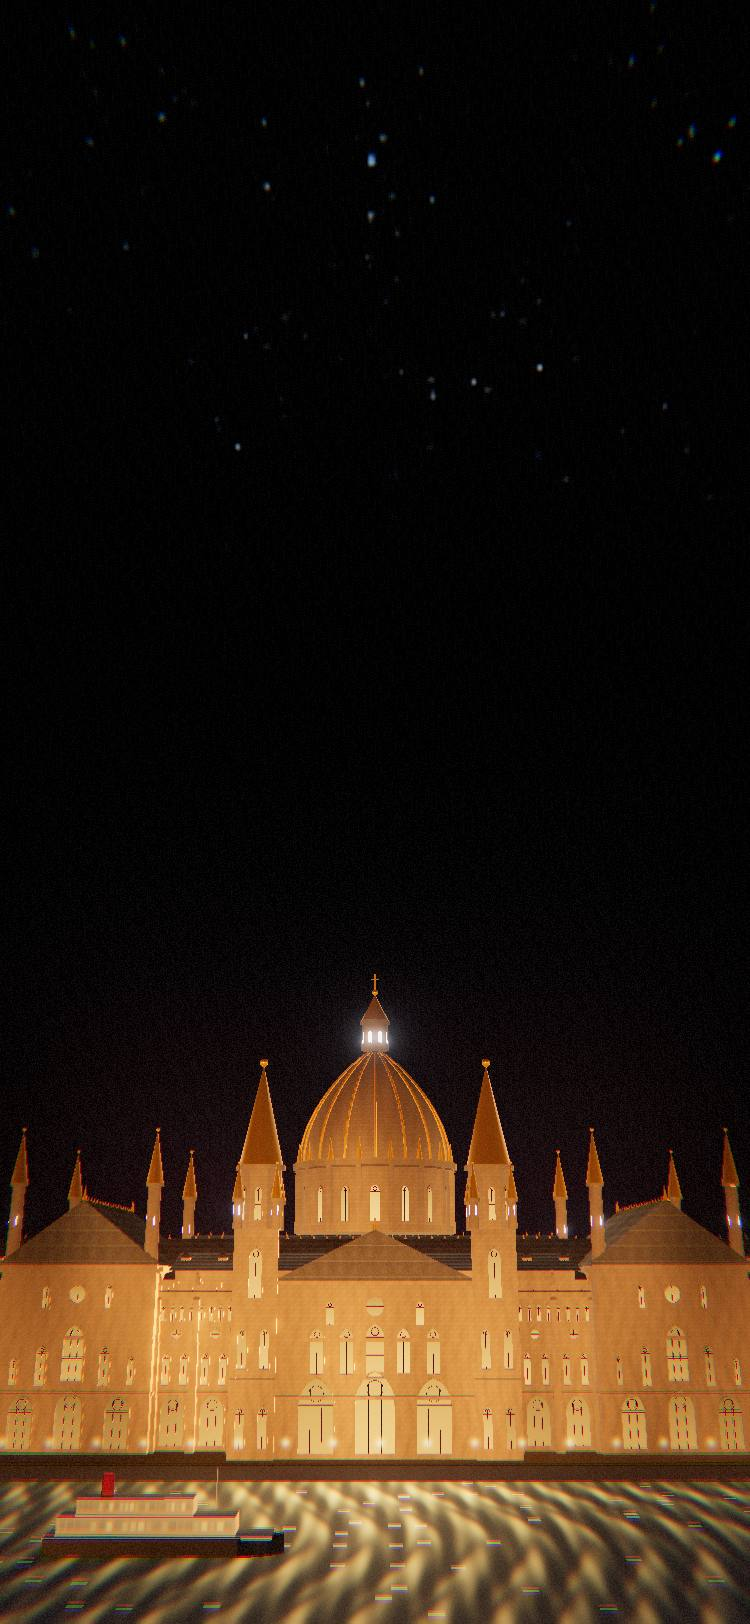
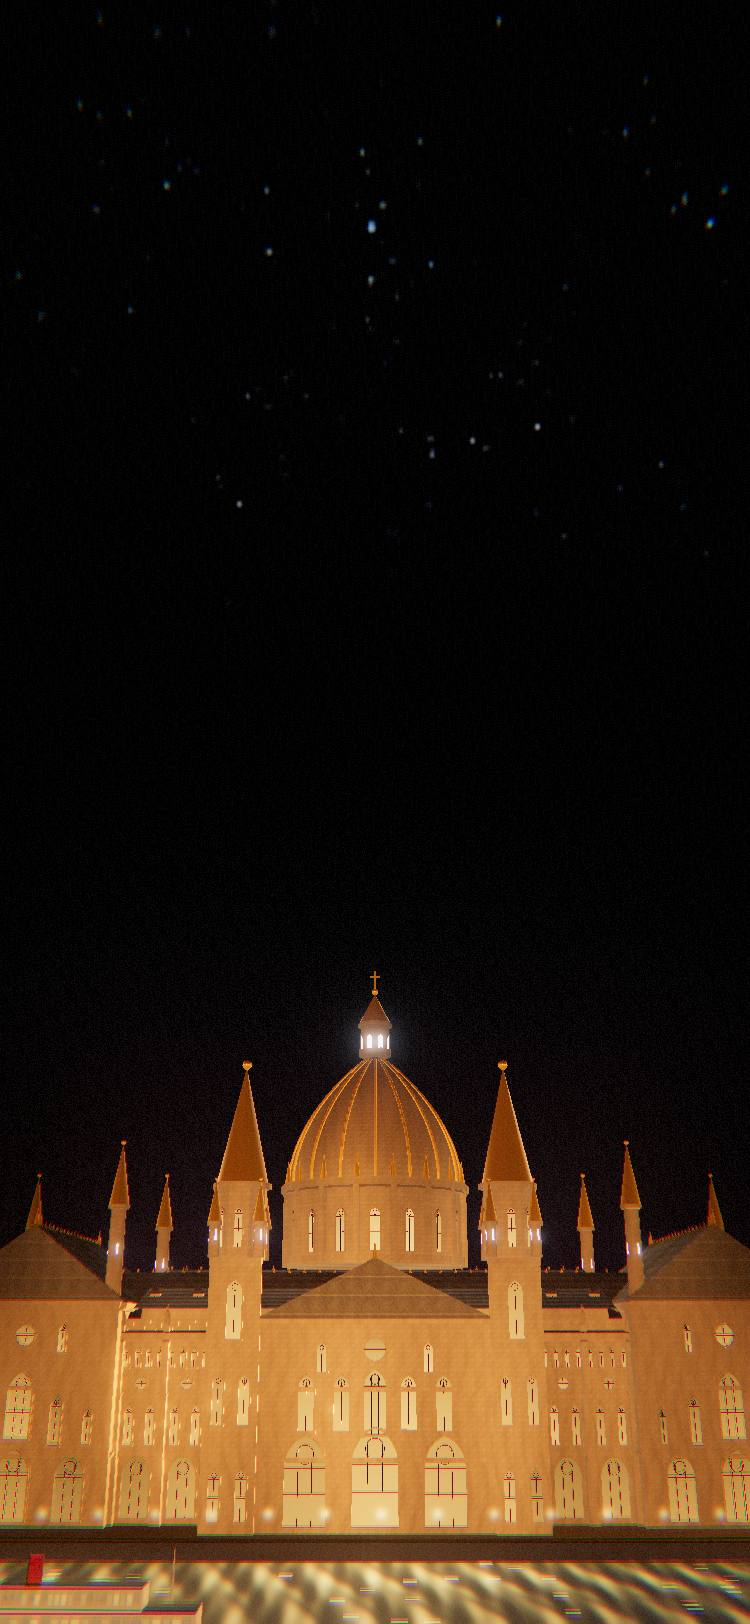
Hero: remove the scroll-cue animation, zoom on the Parliament, text right above the dome

Changed region(s): [[0.0, 0.6158, 1.0, 1.0], [0.4907, 0.0924, 0.5213, 0.1539], [0.9507, 0.0924, 0.9813, 0.1232]]

diff --git a/public/alexstudio/index.html b/public/alexstudio/index.html
@@ -350,18 +350,12 @@ header.nav{
 @media (prefers-reduced-motion:reduce){
   .scroll-arrow-chevrons span{animation:none!important;opacity:.7;}
 }
-.scroll-cue{margin-top:calc(56*var(--u));width:calc(28*var(--u));height:calc(44*var(--u));
-  border:1.5px solid rgba(255,255,255,.65);border-radius:999px;position:relative;flex:none;}
-.scroll-cue span{position:absolute;top:calc(8*var(--u));left:50%;width:4px;height:8px;border-radius:2px;
-  background:var(--cyan);transform:translateX(-50%);animation:scrollcue 1.8s ease-in-out infinite;}
-@keyframes scrollcue{0%{opacity:1;transform:translate(-50%,0);}70%{opacity:0;transform:translate(-50%,14px);}100%{opacity:0;transform:translate(-50%,14px);}}
 
-.hero.enter .eyebrow-wrap,.hero.enter .tagline,.hero.enter .hero-sub,.hero.enter .scroll-cue{
+.hero.enter .eyebrow-wrap,.hero.enter .tagline,.hero.enter .hero-sub{
   opacity:0;transform:translateY(calc(14*var(--u)));}
 .hero.enter.run .eyebrow-wrap{opacity:1;transform:none;transition:opacity .7s var(--ease) .1s,transform .7s var(--ease) .1s;}
 .hero.enter.run .tagline{opacity:1;transform:none;transition:opacity .9s var(--ease) .25s,transform .9s var(--ease) .25s;}
 .hero.enter.run .hero-sub{opacity:1;transform:none;transition:opacity .8s var(--ease) .5s,transform .8s var(--ease) .5s;}
-.hero.enter.run .scroll-cue{opacity:1;transform:none;transition:opacity .8s var(--ease) .7s,transform .8s var(--ease) .7s;}
 
 /* ============================================================
    4. SHOWCASE — the three-slot cinematic switcher
@@ -558,7 +552,6 @@ body.ready .bg,body.ready .grain{opacity:1;}
   .composition,.side,.frame-shell,.tilt{transition:none!important;}
   .frame-shell{animation:none!important;}
   .orbit-ring{animation:none!important;}
-  .scroll-cue span{animation:none!important;}
   .spotlight{display:none!important;}
   .cursor-dot,.cursor-ring{display:none!important;}
 }
@@ -867,12 +860,15 @@ footer.site-foot a:hover{color:var(--cyan);}
   .orbit-wrap,.frame-glow{display:none;}
   .frame-shell{animation:none;}
 }
+@media (min-width:1100px){
+  .hero .tagline{max-width:40ch;}
+  .hero-sub{max-width:66ch;}
+}
 /* Phones: the hero text sits at the top so the Parliament shows underneath it (the camera is raised to match). */
 @media (max-width:820px){
   .hero{justify-content:flex-start;padding:calc(112*var(--u)) var(--gutter) calc(40*var(--u));}
   .hero .tagline{font-size:calc(36*var(--u));}
   .hero-sub{font-size:calc(16.5*var(--u));margin-top:calc(16*var(--u));}
-  .scroll-cue{margin-top:calc(26*var(--u));}
   .hero::before{top:30%;height:56%;}
 }
 </style>
@@ -973,7 +969,6 @@ footer.site-foot a:hover{color:var(--cyan);}
   </div>
   <h1 class="tagline">Prémium webdesign, amely az ambiciózus márkákat pályára állítja.</h1>
   <p class="hero-sub" data-i18n="heroSub">Három szintű mesterségbeli tudás, az egyoldalas weboldaltól a teljesen egyedi prémium élményig — görgess lejjebb, hogy élőben felfedezd őket.</p>
-  <div class="scroll-cue" aria-hidden="true"><span></span></div>
 </section>
 
 <main id="showcase" class="stage showcase enter">

diff --git a/scene3d/parliament3d.js b/scene3d/parliament3d.js
@@ -965,7 +965,7 @@ function buildInterior(mobile, ctx) {
 /* waypoints: [page progress, position, look-at, fov]; progress 0..6 = hero, vitrine,
    prix, services, à propos, FAQ, contact (see PARL_STOPS in the page). */
 const PATH_A = [
-  [0, [0, 34, 300], [0, 111, 0], 44], /* the first screen: the whole Parliament in the lower half, the sky above it for the title (was [0,12,176] -> [0,48,0], building behind the text) */
+  [0, [0, 30, 262], [0, 100, 0], 44], /* the first screen: the whole Parliament in the lower half, the sky above it for the title (was [0,12,176] -> [0,48,0], building behind the text) */
   [1, [-172, 58, 190], [0, 40, 0], 44],
   [2, [-104, 17, 86], [-70, 31, 0], 46],
   [3, [12, 124, 88], [0, 56, -6], 48],
@@ -1186,7 +1186,7 @@ export function createParliament(canvas, opts) {
       ext.door(smooth(4.2, 4.46, prog));
       /* portrait screens: the hero text takes the top two thirds, so the first shot looks higher = the building sits lower, under the text */
       const asp0 = state.W / state.H;
-      if (asp0 < .9) pose.t.y += 34 * clamp((.9 - asp0) / .4, 0, 1) * (1 - smooth(0, .7, prog));
+      if (asp0 < .9) pose.t.y += 40 * clamp((.9 - asp0) / .4, 0, 1) * (1 - smooth(0, .7, prog));
       calm = smooth(4.1, 4.45, prog) * (prog < CUT1 + .01 ? 1 : 0); /* no sideways drift while flying through the door */
       calm = Math.max(calm, smooth(5.3, 5.38, prog) * (1 - smooth(5.68, 5.76, prog))); /* nor around the crown: no bobbing, no mouse-driven zoom */
     }

diff --git a/public/alexstudio/parliament3d.js b/public/alexstudio/parliament3d.js
@@ -15535,12 +15535,12 @@ var hd = [
 		0,
 		[
 			0,
-			34,
-			300
+			30,
+			262
 		],
 		[
 			0,
-			111,
+			100,
 			0
 		],
 		44
@@ -16090,7 +16090,7 @@ function Od(e, t) {
 			let e = Math.abs(i - vd), t = Math.abs(i - yd);
 			e < t ? p = Qu(0, bd, e) : (p = Qu(0, xd, t), h = Cd), _.door(Qu(4.2, 4.46, i));
 			let n = x.W / x.H;
-			n < .9 && (b.t.y += 34 * Zu((.9 - n) / .4, 0, 1) * (1 - Qu(0, .7, i))), w = Qu(4.1, 4.45, i) * +(i < 4.64), w = Math.max(w, Qu(5.3, 5.38, i) * (1 - Qu(5.68, 5.76, i)));
+			n < .9 && (b.t.y += 40 * Zu((.9 - n) / .4, 0, 1) * (1 - Qu(0, .7, i))), w = Qu(4.1, 4.45, i) * +(i < 4.64), w = Math.max(w, Qu(5.3, 5.38, i) * (1 - Qu(5.68, 5.76, i)));
 		}
 		let F = N ? +!!f : i <= vd ? 0 : i < yd ? 1 : 2;
 		F !== j.zone && (j.zone >= 0 && E && j.capZone === j.zone && j.capAge < 6 && (j.mix = 1), j.zone = F), j.mix = Math.max(0, j.mix - d / .8), (f !== x.inInterior || x.first !== !0) && (x.inInterior = f, x.first = !0, _.group.visible = !f, v.group.visible = f, r.shadowMap.needsUpdate = !0, s.environment = f ? g : m, s.environmentIntensity = f ? .04 : .7), _.reflector && (_.reflector.visible = a >= 2 && o.reflect && !f && b.p.y < 260), _.water && (_.water.visible = !(_.reflector && _.reflector.visible));
